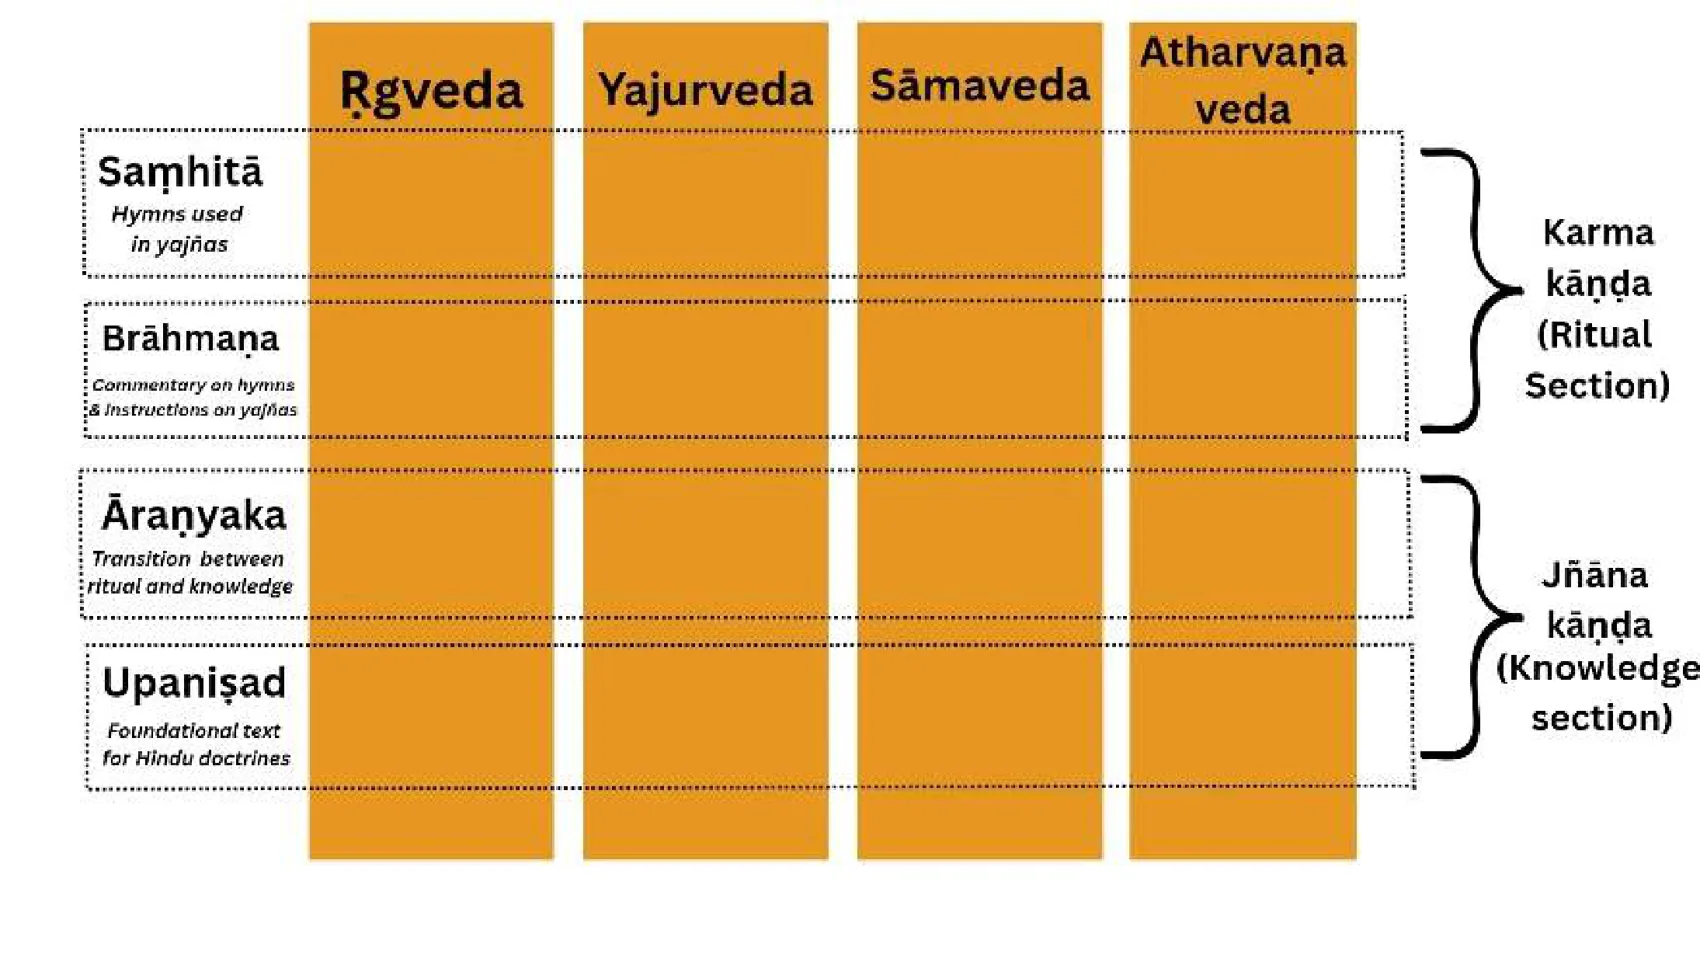
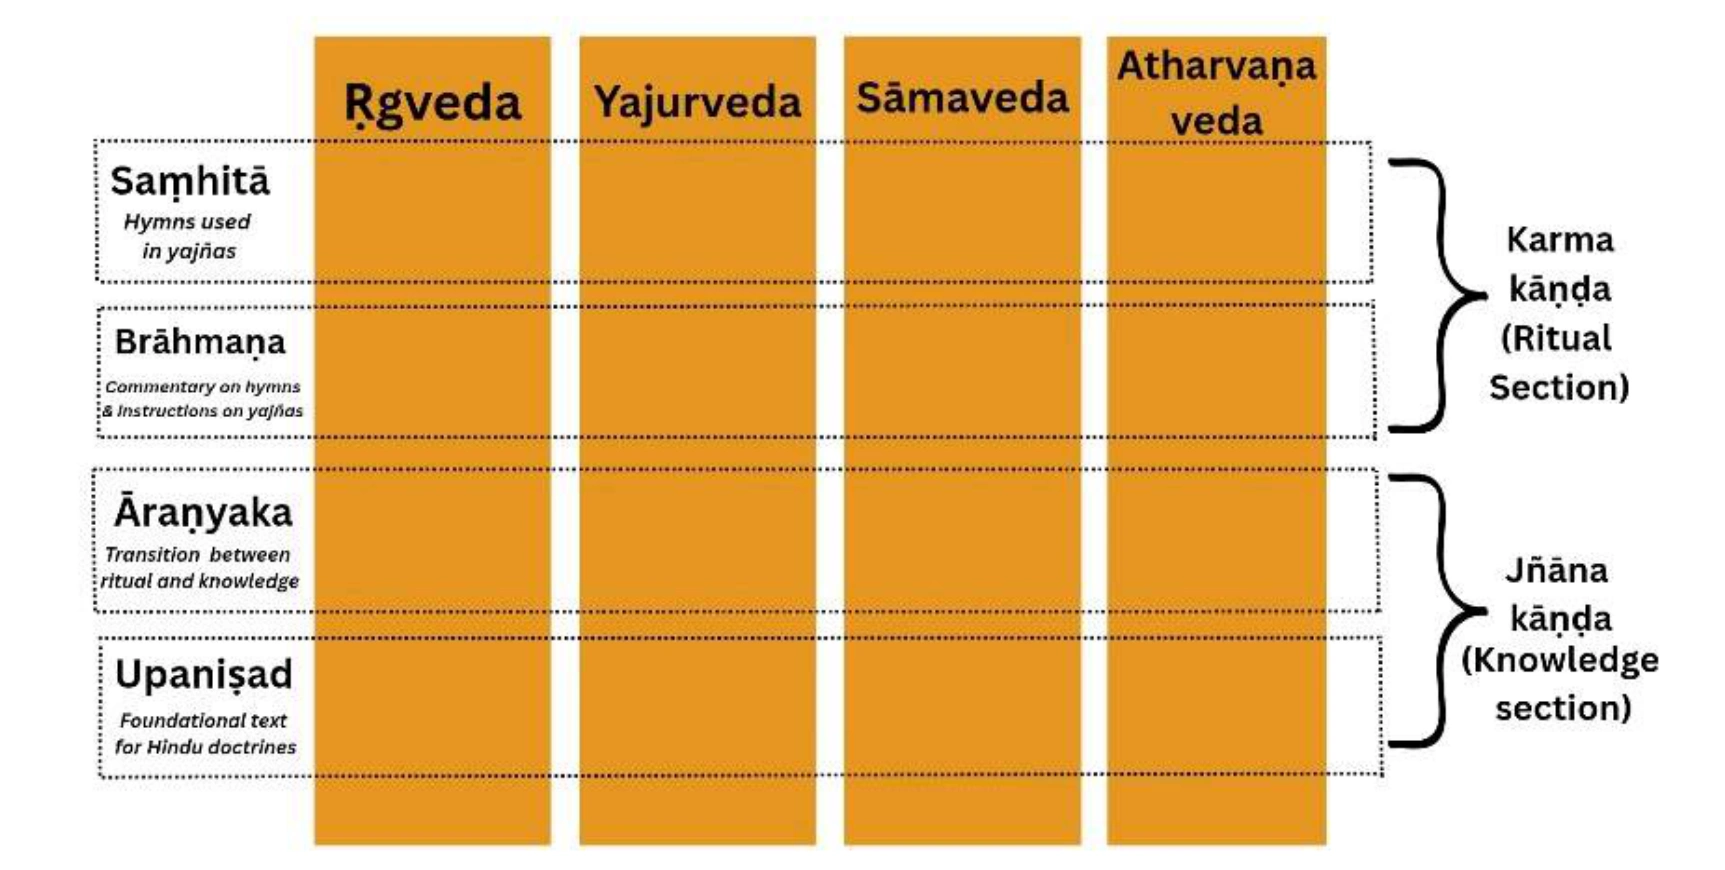
Restore complete Vishnu Veda divisions diagram

diff --git a/site/articles/a-vaishnava-lens-on-vishnu-as-the-supreme-deity/index.html b/site/articles/a-vaishnava-lens-on-vishnu-as-the-supreme-deity/index.html
@@ -47,7 +47,7 @@ yathoktamrigvedaadishaastram yonih kaaranam pramaanamasya brahmano yathaavatsvar
 <p>This is accepted by all aforementioned schools, who all allege that their doctrine is backed by all the scriptures. Thus we will argue only based on what is acceptable by all of them as Pramana.</p>
 <p>Having established scripture as the basis, the paper next defines what counts as scripture. The highest scriptures are the Vedas, or Shruti. "Veda" here means not merely the four Samhitas, as is common in modern discussion, but also their associated Brahmanas, Aranyakas, and Upanishads.</p>
 <p>The Samhitas and Brahmanas together form the karma-kanda, the ritual division. Their praises of particular deities occur within ritual contexts and are therefore treated by the source as doctrinally indecisive. The Aranyakas and Upanishads together form the jnana-kanda, the knowledge division concerned with Brahman, the self, and the universe.</p>
-<figure class="source-document-figure"><img src="/advaita/assets/images/vishnu/vishnu-veda-divisions.webp?v=20261027-source-figures-1" alt="Original Veda divisions diagram from the source document" width="1700" height="954" loading="lazy" decoding="async"></figure><h3 id="sm-ti">Smriti</h3>
+<figure class="source-document-figure"><img src="/advaita/assets/images/vishnu/vishnu-veda-divisions.webp?v=20261027-full-figure-2" alt="Original Veda divisions diagram from the source document" width="1725" height="870" loading="lazy" decoding="async"></figure><h3 id="sm-ti">Smriti</h3>
 <p>Aside from the Vedas, there are other scriptures within Hinduism, usually called Smritis. These derive their authority directly from the Vedas and are mentioned in them. They are:</p>
 <h4 id="1-dharma-stras">1. Dharmashastras</h4>
 <p>Primarily featuring the Manusmrti, these are texts dealing largely with social laws.</p>
